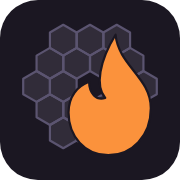
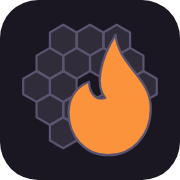
Match dusk flame stroke to the segment stroke
On dusk surfaces, pin the flame halo to the mirror's segment stroke
(#5b5470) instead of the surface behind it, so the flame outline reads
as one unified line drawing with the honeycomb rather than floating in a
knock-out moat. Applied consistently to all three always-dusk surfaces:

- .dark page:  --logo-halo #16131c -> #5b5470
- header bar:  --logo-halo #1b1722 -> #5b5470
- favicon / apple-icon: regenerated with the matching halo

Light mode is unchanged — the flame there still knocks out to the paper
background.

Claude-Session: https://claude.ai/code/session_01P8btFaaT54pnWU8ia1ii9t

Changed region(s): [[0.3611, 0.25, 0.7778, 0.8889], [0.6667, 0.2778, 0.8611, 0.7778], [0.6111, 0.1667, 0.6667, 0.2778]]

diff --git a/web/app/globals.css b/web/app/globals.css
@@ -96,12 +96,14 @@
   --background-start-rgb: 22, 19, 28;
   --background-end-rgb: 22, 19, 28;
 
-  /* Logo — RESTATE the token-derived vars here. A custom property that
-     references another (--logo-flame: var(--primary)) resolves at the level
-     it's declared, so a :root declaration would freeze light-mode --primary
-     even under .dark. Re-declaring re-resolves against the dusk tokens. */
+  /* Logo — RESTATE the flame here: a custom property that references another
+     (--logo-flame: var(--primary)) resolves at the level it's declared, so a
+     :root-only declaration would freeze light-mode --primary even under .dark.
+     Re-declaring re-resolves against the dusk tokens. The dusk halo is pinned
+     to the segment stroke (not the page background) so the flame outline reads
+     as one unified line drawing with the mirror rather than floating in a moat. */
   --logo-flame:          var(--primary);         /* → #fb923c in dusk */
-  --logo-halo:           var(--background);       /* → #16131c */
+  --logo-halo:           #5b5470;                /* matches segment stroke — unified line-art */
   --logo-segment-stroke: #5b5470;                /* dusk warm-grey line */
   --logo-segment-fill:   rgba(184, 174, 198, 0.12);
 
@@ -151,13 +153,14 @@
    Always-dark header bar (--header: #1b1722, identical in both modes).
    The page accent (--primary) is the DARK paper-ember in light mode and would
    read muddy on the bar, so pin the logo to the dusk palette here regardless
-   of theme, and pin the halo to the bar surface. Because these are declared on
-   the header element (a nearer ancestor than <html>.dark), the <Logo /> inside
-   the bar resolves against them in both light and dark mode.
+   of theme. The halo matches the segment stroke (same treatment as the dark
+   page) so both dusk surfaces render identically. Because these are declared
+   on the header element (a nearer ancestor than <html>.dark), the <Logo />
+   inside the bar resolves against them in both light and dark mode.
    Marker lives on the top <nav> in components/layout/Navigation.tsx. */
 [data-slot="app-header"] {
   --logo-flame:          #fb923c;                /* bright ember on the bar */
-  --logo-halo:           var(--header);           /* #1b1722 — the bar itself */
+  --logo-halo:           #5b5470;                /* matches segment stroke — unified line-art */
   --logo-segment-stroke: #5b5470;
   --logo-segment-fill:   rgba(184, 174, 198, 0.12);
 }
